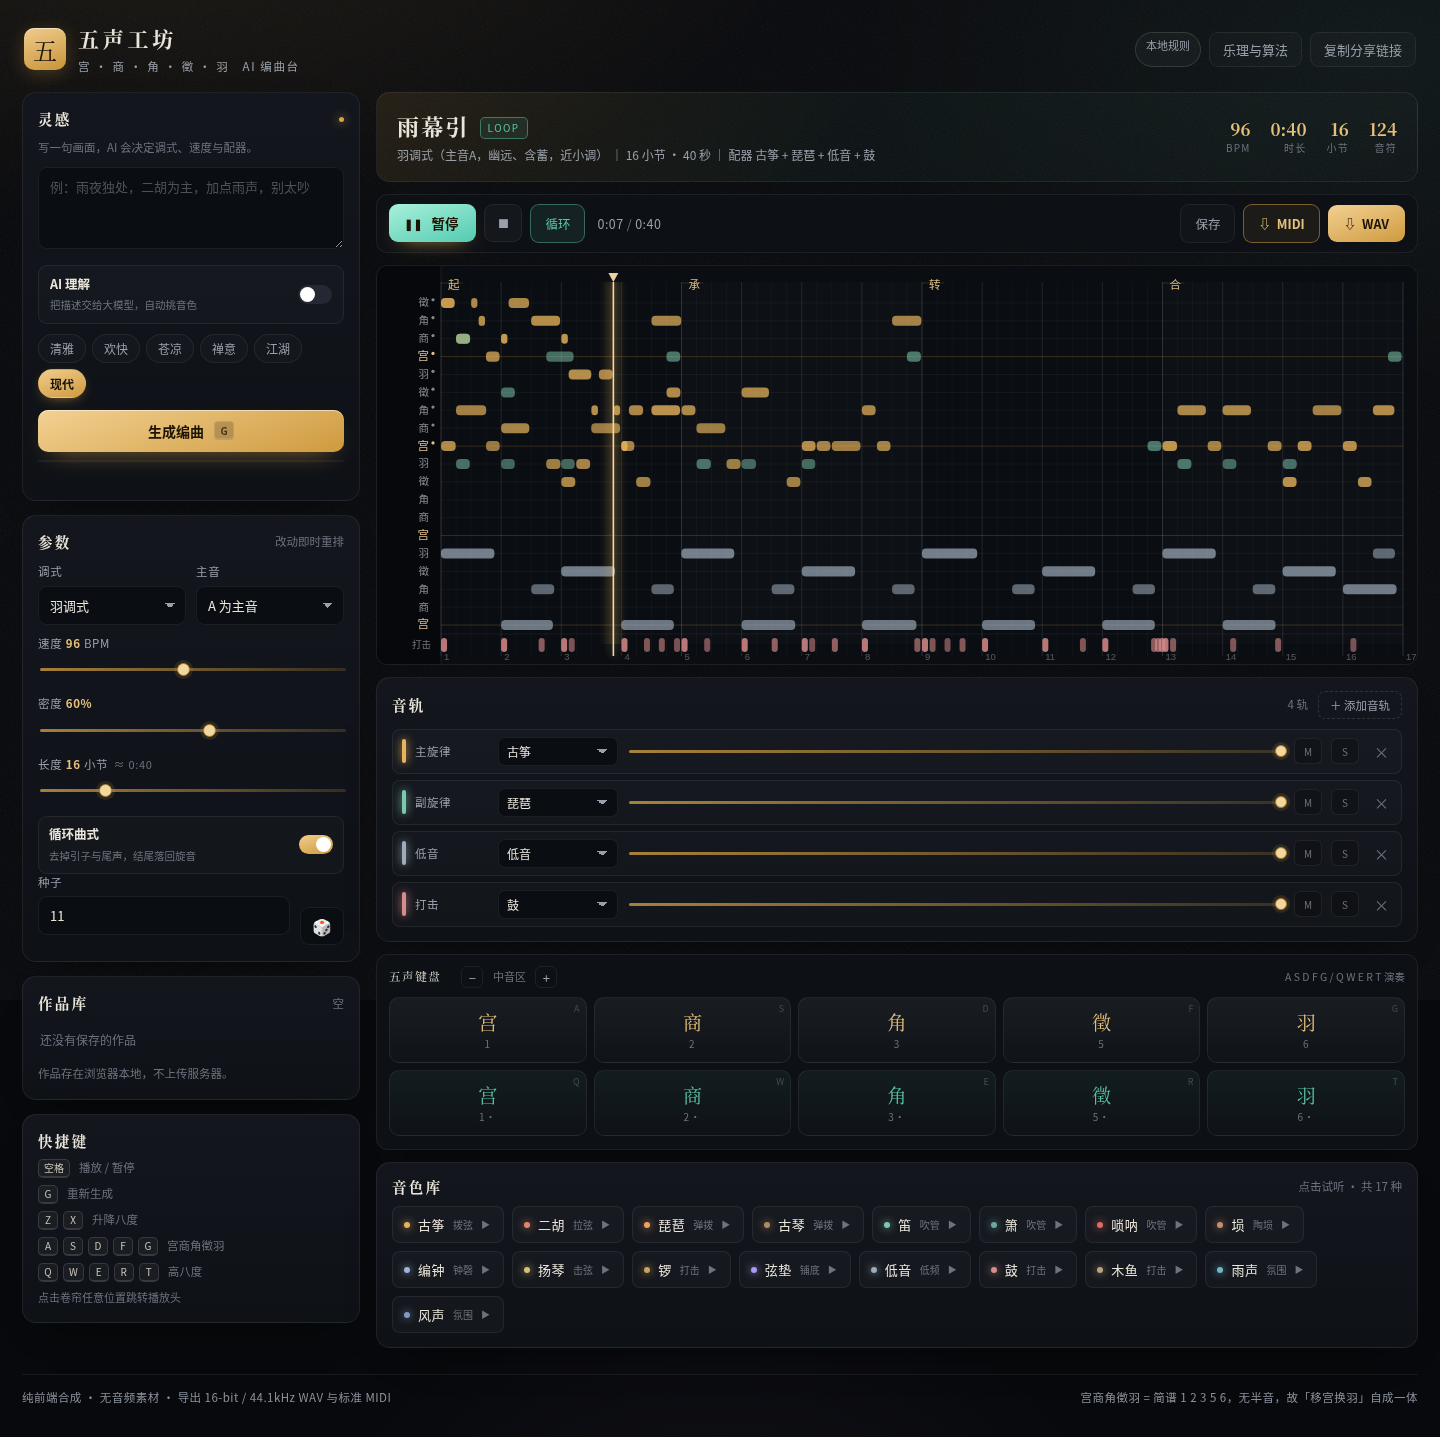
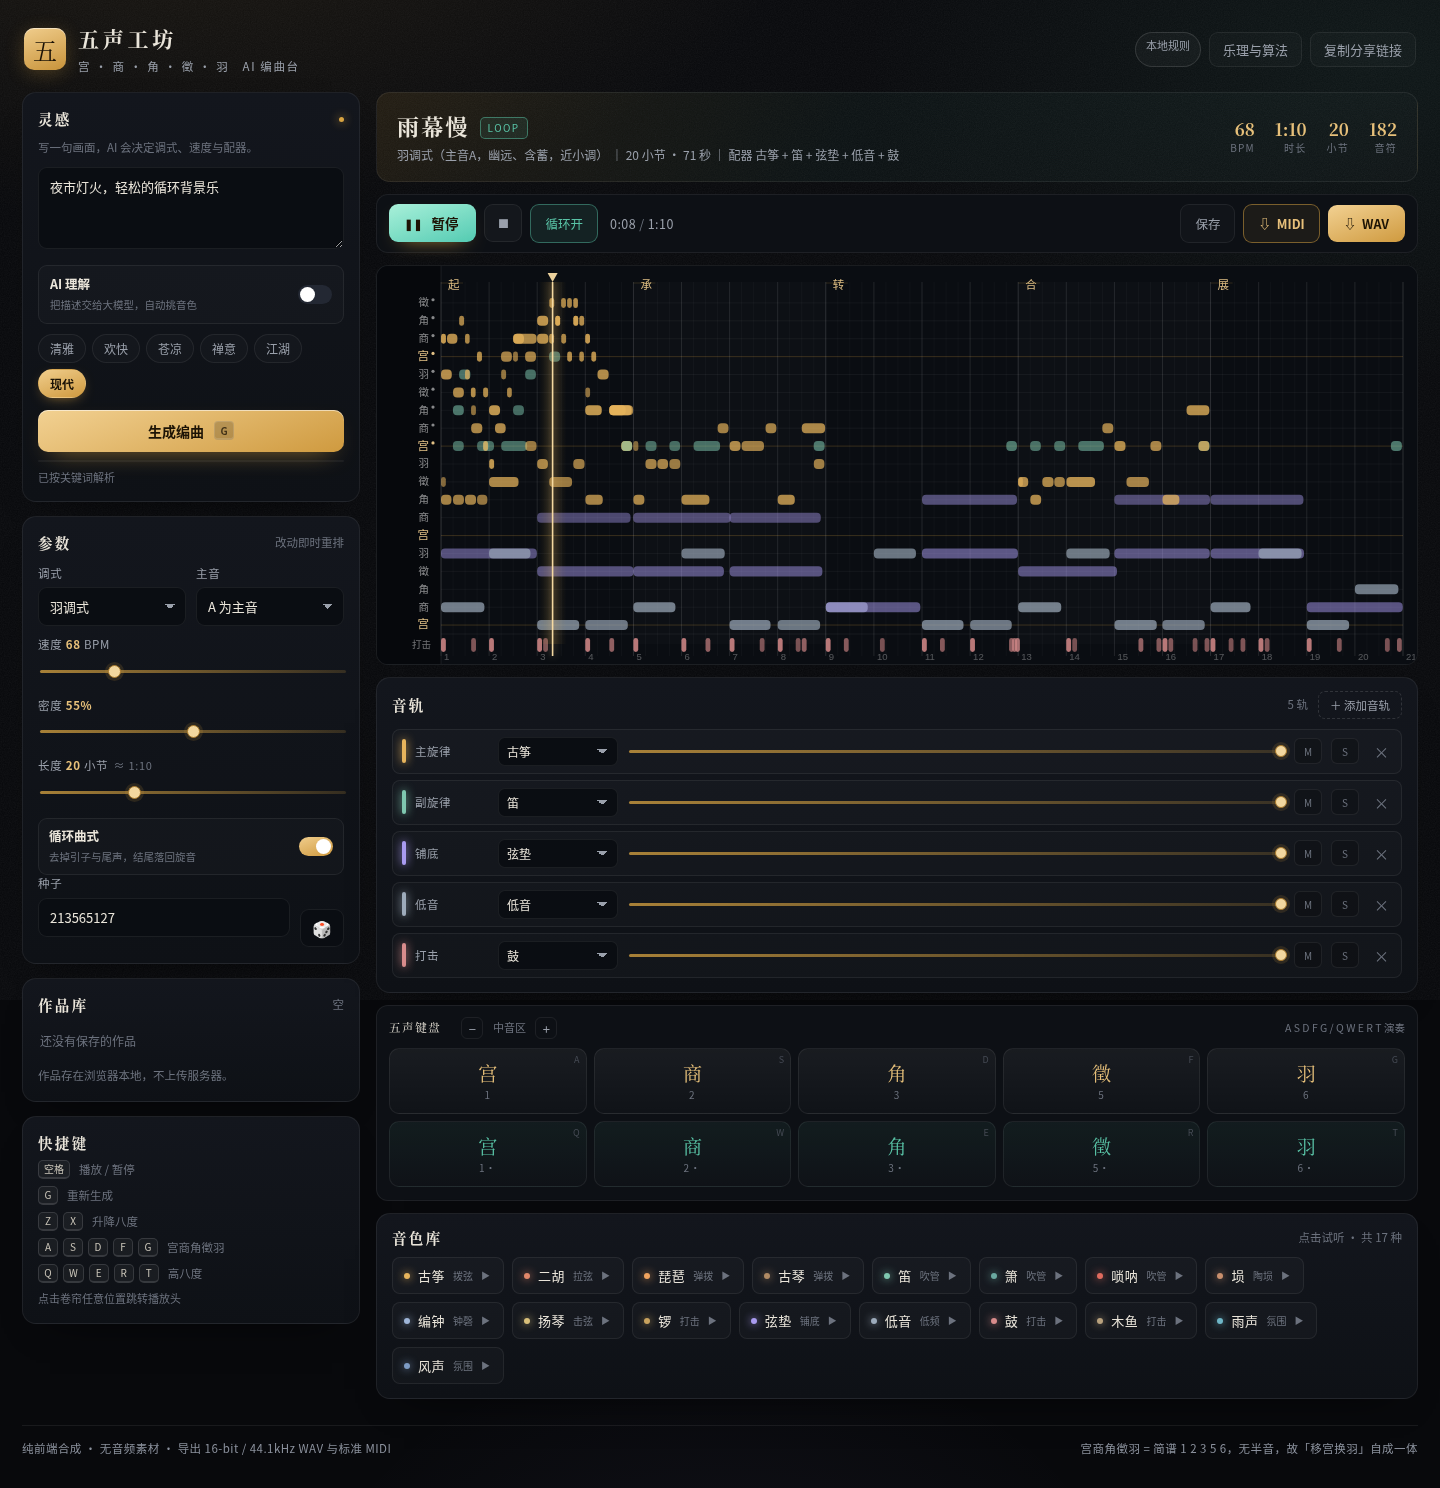
fix: 播放循环只绕音乐本体，不掉进结尾余音；按钮文案区分「循环开」

diff --git a/public/js/player.js b/public/js/player.js
@@ -80,6 +80,7 @@ export class Player {
     const loop = !!piece.meta.loop;
     const loopLen = loop ? Math.round(piece.meta.beats * secPerBeat * SR) : 0;
     this.loopLen = loopLen;
+    this.musicalLen = loop ? loopLen / SR : endBeat * secPerBeat;
     this.duration = loop ? loopLen / SR : endBeat * secPerBeat + TAIL_BEATS * secPerBeat + 1.6;
     // 循环曲式多渲染 4 秒尾巴，稍后折回开头
     const total = loop ? loopLen + 4 * SR : Math.ceil(this.duration * SR);
@@ -165,7 +166,11 @@ export class Player {
       pan.pan.value = this.piece.trackDefs?.[id]?.pan ?? 0;
       const send = ctx.createGain(); send.gain.value = 0.5;
       src.connect(gain); gain.connect(pan); pan.connect(this.master); pan.connect(send); send.connect(this.conv);
-      if (this.loop) { src.loop = true; src.loopStart = 0; src.loopEnd = buf.duration; }
+      if (this.loop) {
+        src.loop = true;
+        src.loopStart = 0;
+        src.loopEnd = Math.min(buf.duration, this.musicalLen + 0.02);
+      }
       src.start(when, Math.min(this.startOffset, buf.duration - 0.01));
       this.sources.push(src);
       this.nodes.set(id, { gain, pan, send });

diff --git a/public/js/app.js b/public/js/app.js
@@ -270,6 +270,7 @@ function renderAll() {
 
   $('loopTag').hidden = !m.loop;
   $('btnLoop').classList.toggle('on', player.loop);
+  $('btnLoop').textContent = player.loop ? '循环开' : '循环';
 
   const badge = $('engineBadge');
   badge.hidden = false;
@@ -758,6 +759,7 @@ function bind() {
   $('btnStop').addEventListener('click', stopAll);
   $('btnLoop').addEventListener('click', () => {
     player.loop = !player.loop;
+    $('btnLoop').textContent = player.loop ? '循环开' : '循环';
     $('btnLoop').classList.toggle('on', player.loop);
     if (player.playing) player.play(player.position); // 立即按新的循环状态重排
   });
